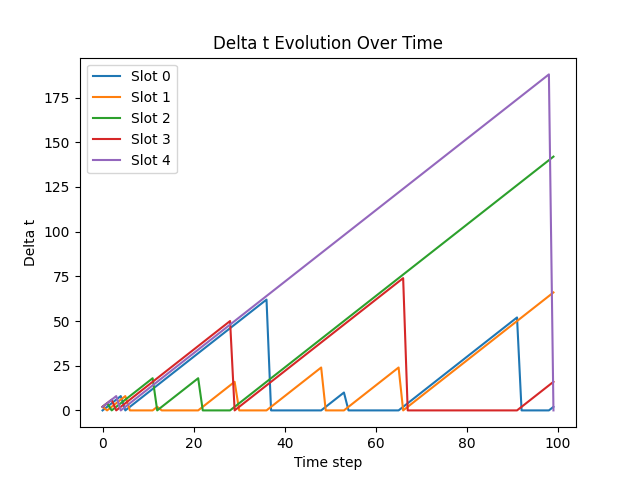
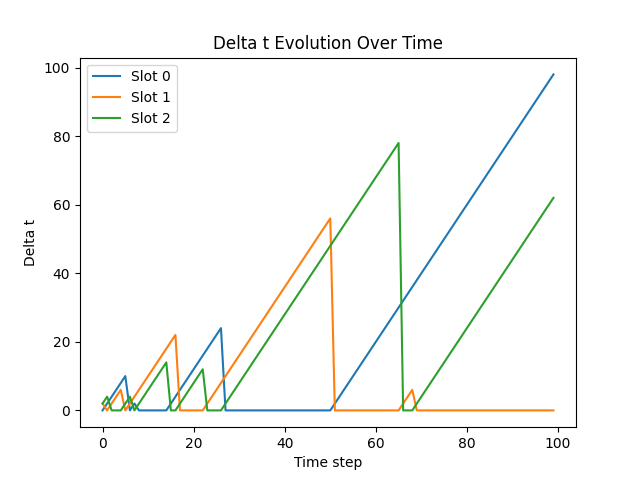
ugly heatmap, proper code and dt graph, good signs

diff --git a/complex_demo_hy.py b/complex_demo_hy.py
@@ -17,7 +17,7 @@ from plots import (
 T            = 100
 HIDDEN       = 16
 OUT          = 1
-MEM_SLOTS    = 5
+MEM_SLOTS    = 3
 P_PRIMARY    = 0.05
 P_DISTRACTOR = 0.10
 N_SEQS       = 1000
@@ -29,7 +29,7 @@ DEVICE       = torch.device('cuda' if torch.cuda.is_available() else 'cpu')
 
 def make_complex_dataset(n,
                          baseline_mu=1.0, baseline_sigma=0.2,
-                         event_rate=0.02,
+                         event_rate=0.1,
                          spike_scale=10.0,
                          label_margin=1.2):
     """
